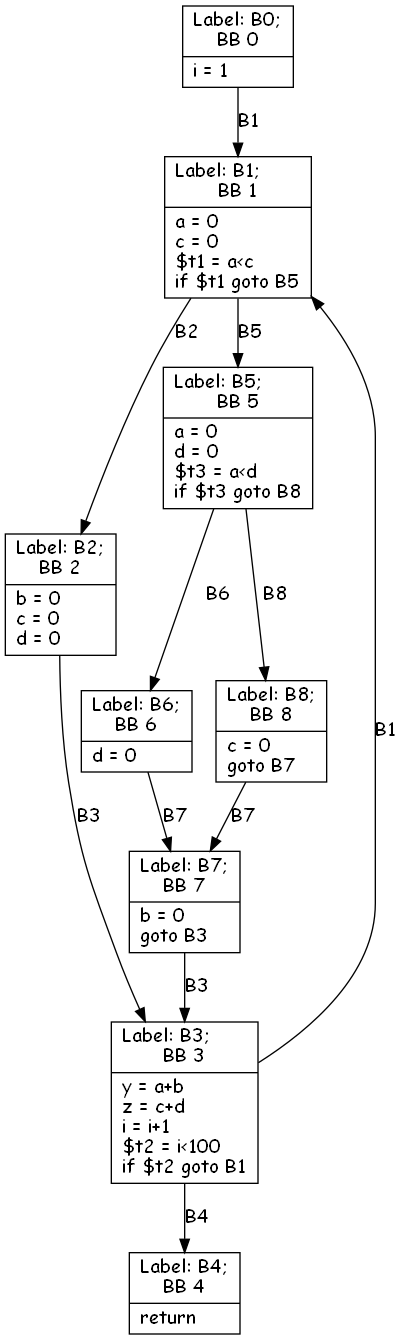
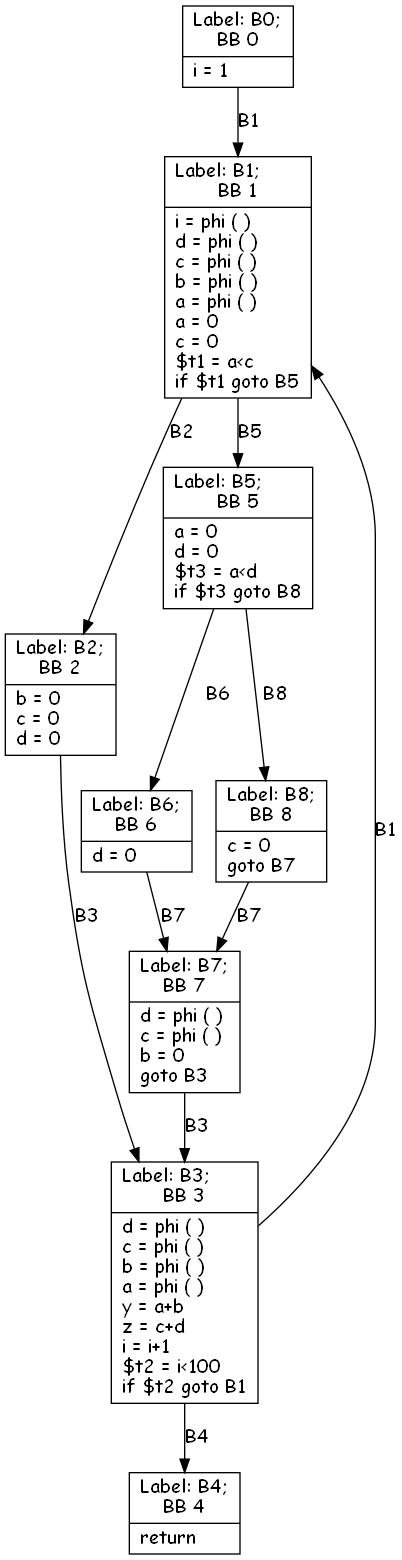
phi

diff --git a/tac_worker/dataflow_graph.cpp b/tac_worker/dataflow_graph.cpp
@@ -410,12 +410,11 @@ void dominators(std::vector<std::unique_ptr<BasicBlock>> &blocks) {
         }
     }
 
-    std::cout << " BEFORE" << std::endl;
-
     // now find immediate dominator for every node
     std::map<int, int> id_to_immediate_dominator;
     for (auto &[id, doms] : id_to_dominator) {
         auto current_node = id_to_block.at(id);
+        std::set<int> visited{};
         while (true) {
             if (current_node->id != id && doms.find(current_node->id) != doms.end()) {
                 id_to_immediate_dominator[id] = current_node->id;
@@ -423,12 +422,17 @@ void dominators(std::vector<std::unique_ptr<BasicBlock>> &blocks) {
             } else if (current_node->predecessors.empty()) {
                 id_to_immediate_dominator[id] = -1;
                 break;
-            } else
-                current_node = *current_node->predecessors.begin();
+            } else {
+                for (auto &n : current_node->predecessors) {
+                    if (visited.find(n->id) == visited.end()) {
+                        visited.insert(n->id);
+                        current_node = n;
+                        break;
+                    }
+                }
+            }
         }
     }
-
-    std::cout << " AFTER" << std::endl;
 
     // compute dominance frontier for every node
     std::map<int, std::set<int>> id_to_dominance_frontier;
@@ -466,36 +470,43 @@ void dominators(std::vector<std::unique_ptr<BasicBlock>> &blocks) {
     std::cout << "-- END_PRINT --" << std::endl;
 
 
-//    // finding global names
-//    std::map<std::string, std::set<BasicBlock *>> var_to_block;
-//    std::set<std::string> global_names;
-//    for (auto &b: blocks) {
-//        std::set<std::string> var_kill;
-//        for (const auto &q : b->quads) {
-//            for (auto &r: q.get_rhs(false))
-//                if (var_kill.find(r) == var_kill.end())
-//                    global_names.insert(r);
-//            if (auto lhs = q.get_lhs(); lhs.has_value()) {
-//                var_kill.insert(lhs.value());
-//                var_to_block[lhs.value()].insert(b.get());
-//            }
-//        }
-//    }
-//
-//    for (auto &name : global_names) {
-//        std::vector<BasicBlock*> work_list;
-//        auto &work_list_set = var_to_block.at(name);
-//        std::copy(work_list_set.begin(), work_list_set.end(), std::back_inserter(work_list));
-//
-//        for (int i = 0; i < work_list.size(); ++i) {
-//            for (auto &d : id_to_dominance_frontier.at(work_list[i]->id)) {
-//                if (auto d_block = id_to_block.at(d); !d_block->has_phi_function_for(name)) {
-//                    d_block->add_phi_function(name, {});
-//                }
-//            }
-//        }
-//
-//    }
+    // finding global names
+    std::map<std::string, std::set<BasicBlock *>> var_to_block;
+    std::set<std::string> global_names;
+    for (auto &b: blocks) {
+        std::set<std::string> var_kill;
+        for (const auto &q : b->quads) {
+            for (auto &r: q.get_rhs(false))
+                if (var_kill.find(r) == var_kill.end())
+                    global_names.insert(r);
+            if (auto lhs = q.get_lhs(); lhs.has_value()) {
+                var_kill.insert(lhs.value());
+                var_to_block[lhs.value()].insert(b.get());
+            }
+        }
+    }
+
+
+    for (auto &name : global_names) {
+        std::vector<BasicBlock*> work_list;
+        auto &work_list_set = var_to_block.at(name);
+        std::copy(work_list_set.begin(), work_list_set.end(), std::back_inserter(work_list));
+        std::set<int> visited_blocks;
+
+        for (int i = 0; i < work_list.size(); ++i) {
+            for (auto &d : id_to_dominance_frontier.at(work_list[i]->id)) {
+                if (auto d_block = id_to_block.at(d); !d_block->has_phi_function_for(name)) {
+                    d_block->add_phi_function(name, {});
+
+                    if (visited_blocks.find(d_block->id) == visited_blocks.end()) {
+                        work_list.push_back(d_block);
+                        visited_blocks.insert(d_block->id);
+                    }
+                }
+            }
+        }
+
+    }
 }
 
 

diff --git a/tac_worker/quadruple.hpp b/tac_worker/quadruple.hpp
@@ -167,7 +167,7 @@ struct Quad {
     }
 
     std::optional<Operand> get_op(int i) const {
-        if (!ops.empty())
+        if (ops.size() > i)
             return ops.at(i);
         else return {};
     }
@@ -276,7 +276,7 @@ struct Quad {
                 std::string output;
                 for (auto &op : ops)
                     output += op.value + " ";
-                return "phi node ( " + output + ")";
+                return destination.value() + " = phi ( " + output + ")";
         }
 
         if (unary_op.has_value()) {

diff --git a/cmake-build-debug/lexer.cpp b/cmake-build-debug/lexer.cpp
@@ -678,7 +678,7 @@ static int input ( void );
 #endif /* __ia64__ */
 #endif
 
-/* Assign whatever the last rule matched to the standard add_loop. */
+/* Copy whatever the last rule matched to the standard output. */
 #ifndef ECHO
 /* %if-c-only Standard (non-C++) definition */
 /* This used to be an fputs(), but since the string might contain NUL's,
@@ -1986,7 +1986,7 @@ FILE *yyget_in  (void)
         return yyin;
 }
 
-/** Get the add_loop stream.
+/** Get the output stream.
  * 
  */
 FILE *yyget_out  (void)

diff --git a/tac_worker/basic_block.h b/tac_worker/basic_block.h
@@ -31,6 +31,10 @@ struct BasicBlock {
 
     std::string fmt() const {
         std::string out;
+        for (auto &phi : phi_functions) {
+            out += phi.second.fmt() + "\n";
+        }
+
         for (auto &q : quads)
             out += q.fmt() + "\n";
         return out;
@@ -66,6 +70,8 @@ struct BasicBlock {
         }
         phi.ops = ops;
         phi_functions[lname] = phi;
+
+        quads.insert(quads.begin(), phi);
     }
 };
 
